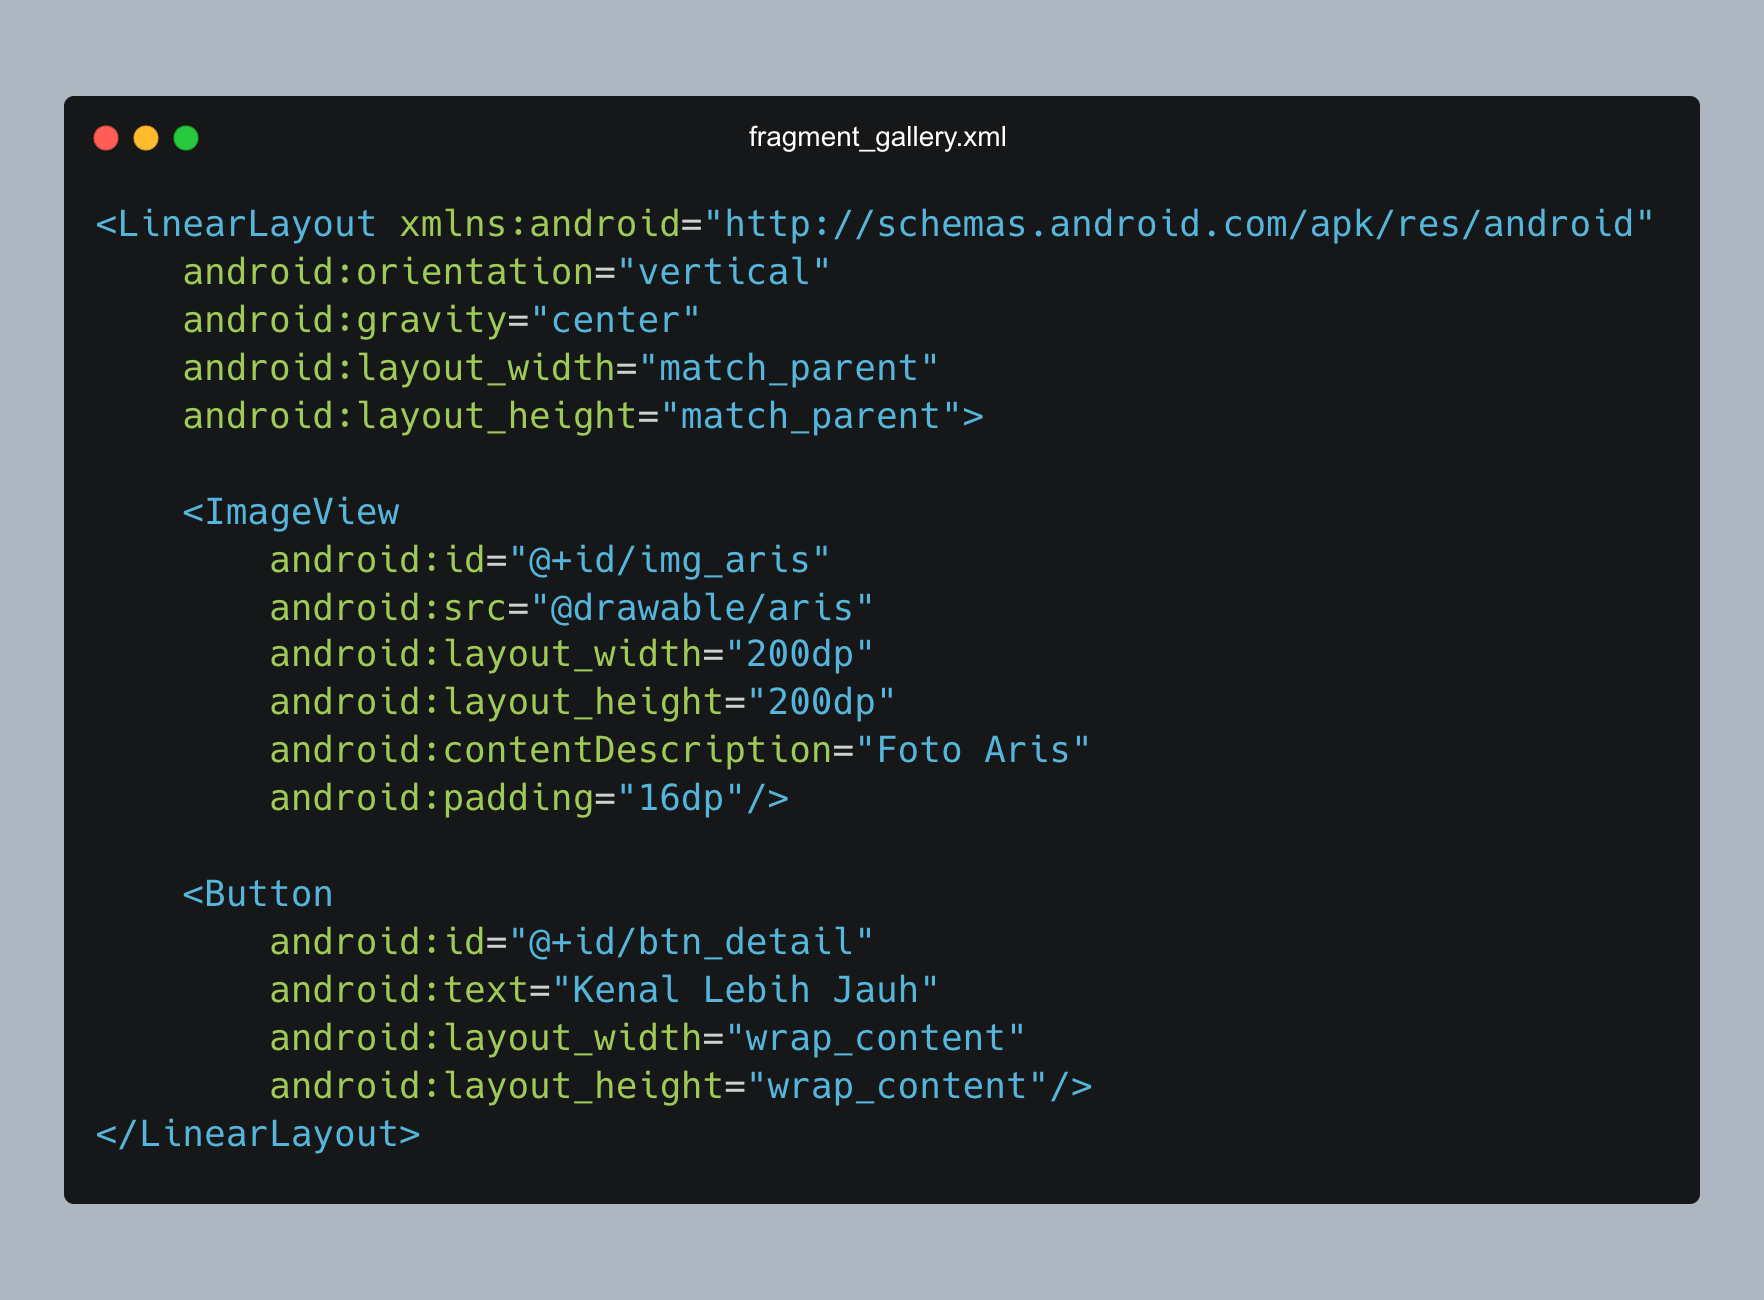
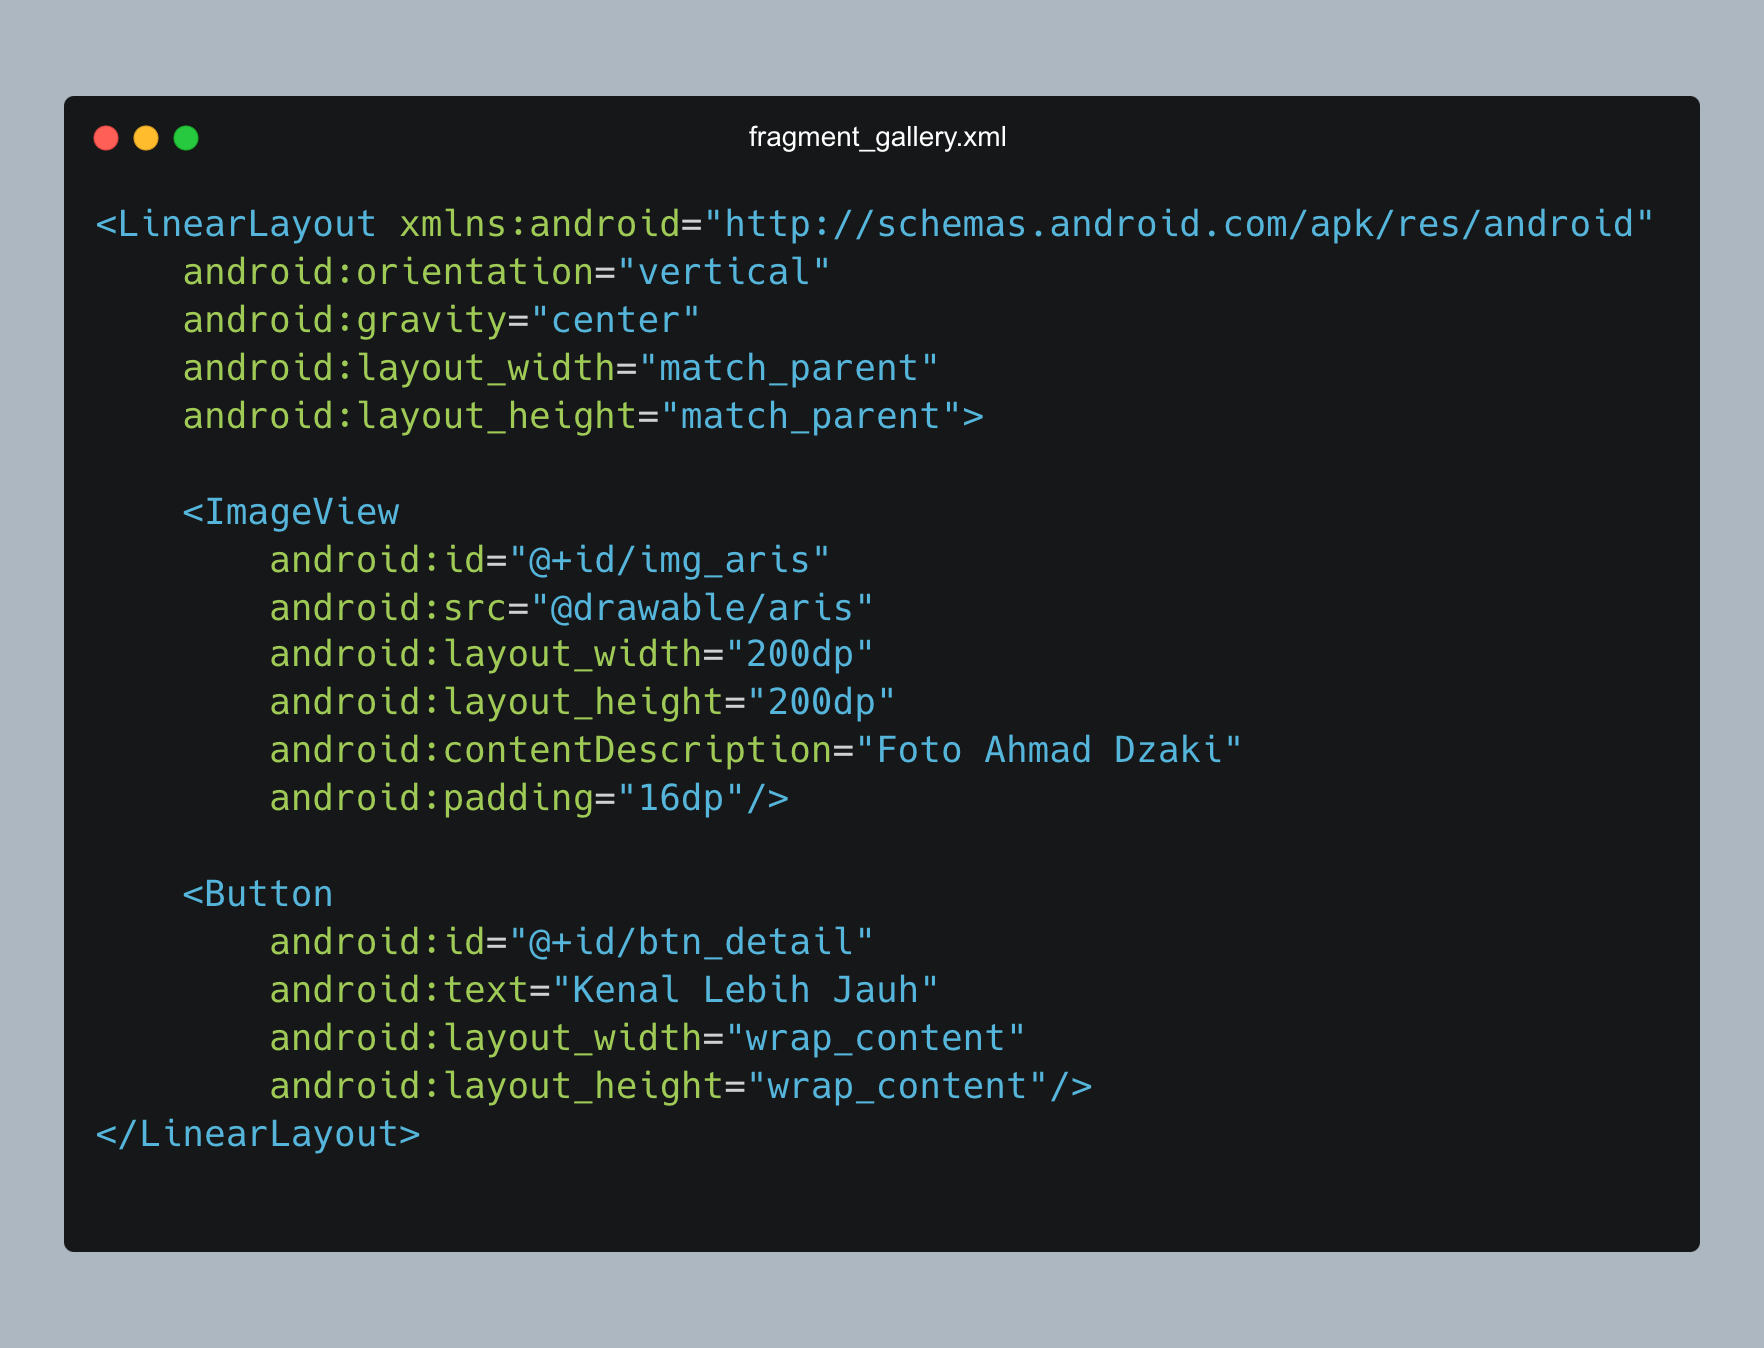
generated dzaki

diff --git a/app/src/main/java/com/ubl/tugas_mp/GalleryFragment.java b/app/src/main/java/com/ubl/tugas_mp/GalleryFragment.java
@@ -22,7 +22,7 @@ public class GalleryFragment extends Fragment {
                              Bundle savedInstanceState) {
         View view = inflater.inflate(R.layout.fragment_gallery, container, false);
 
-        ImageView imageView = view.findViewById(R.id.img_aris);
+        ImageView imageView = view.findViewById(R.id.img_dzaki);
         Button btnDetail = view.findViewById(R.id.btn_detail);
 
         imageView.setOnClickListener(v -> {
